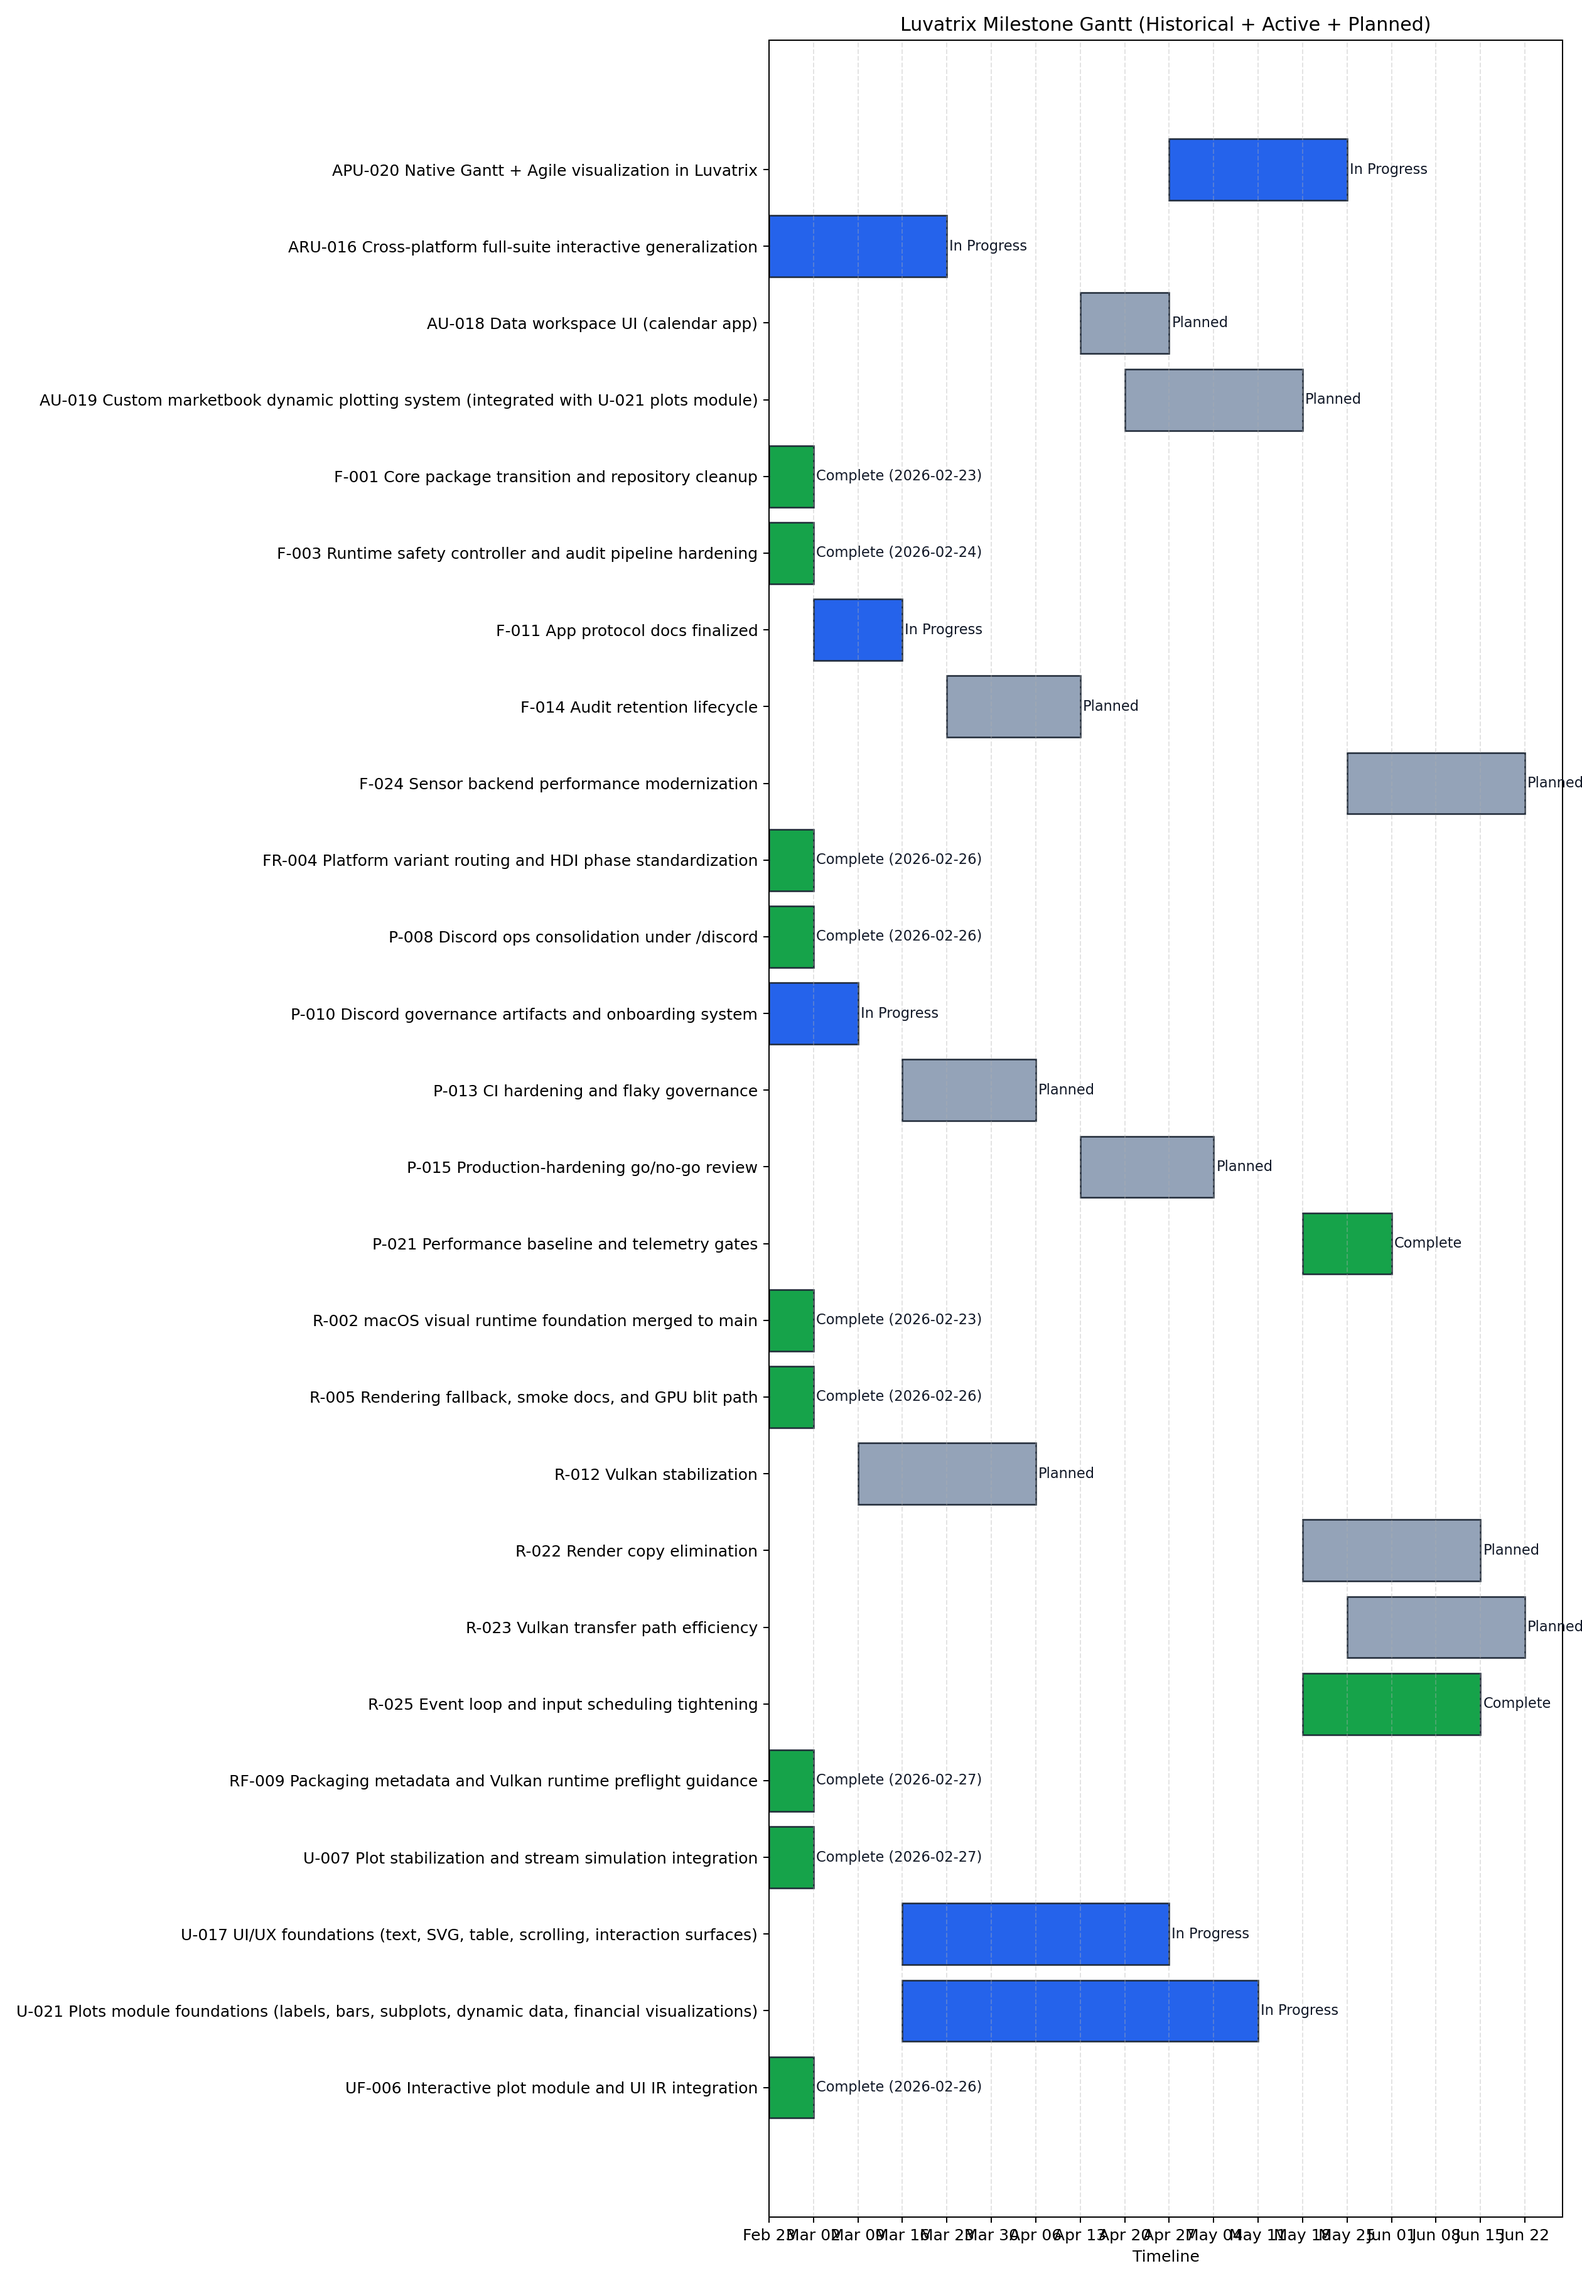
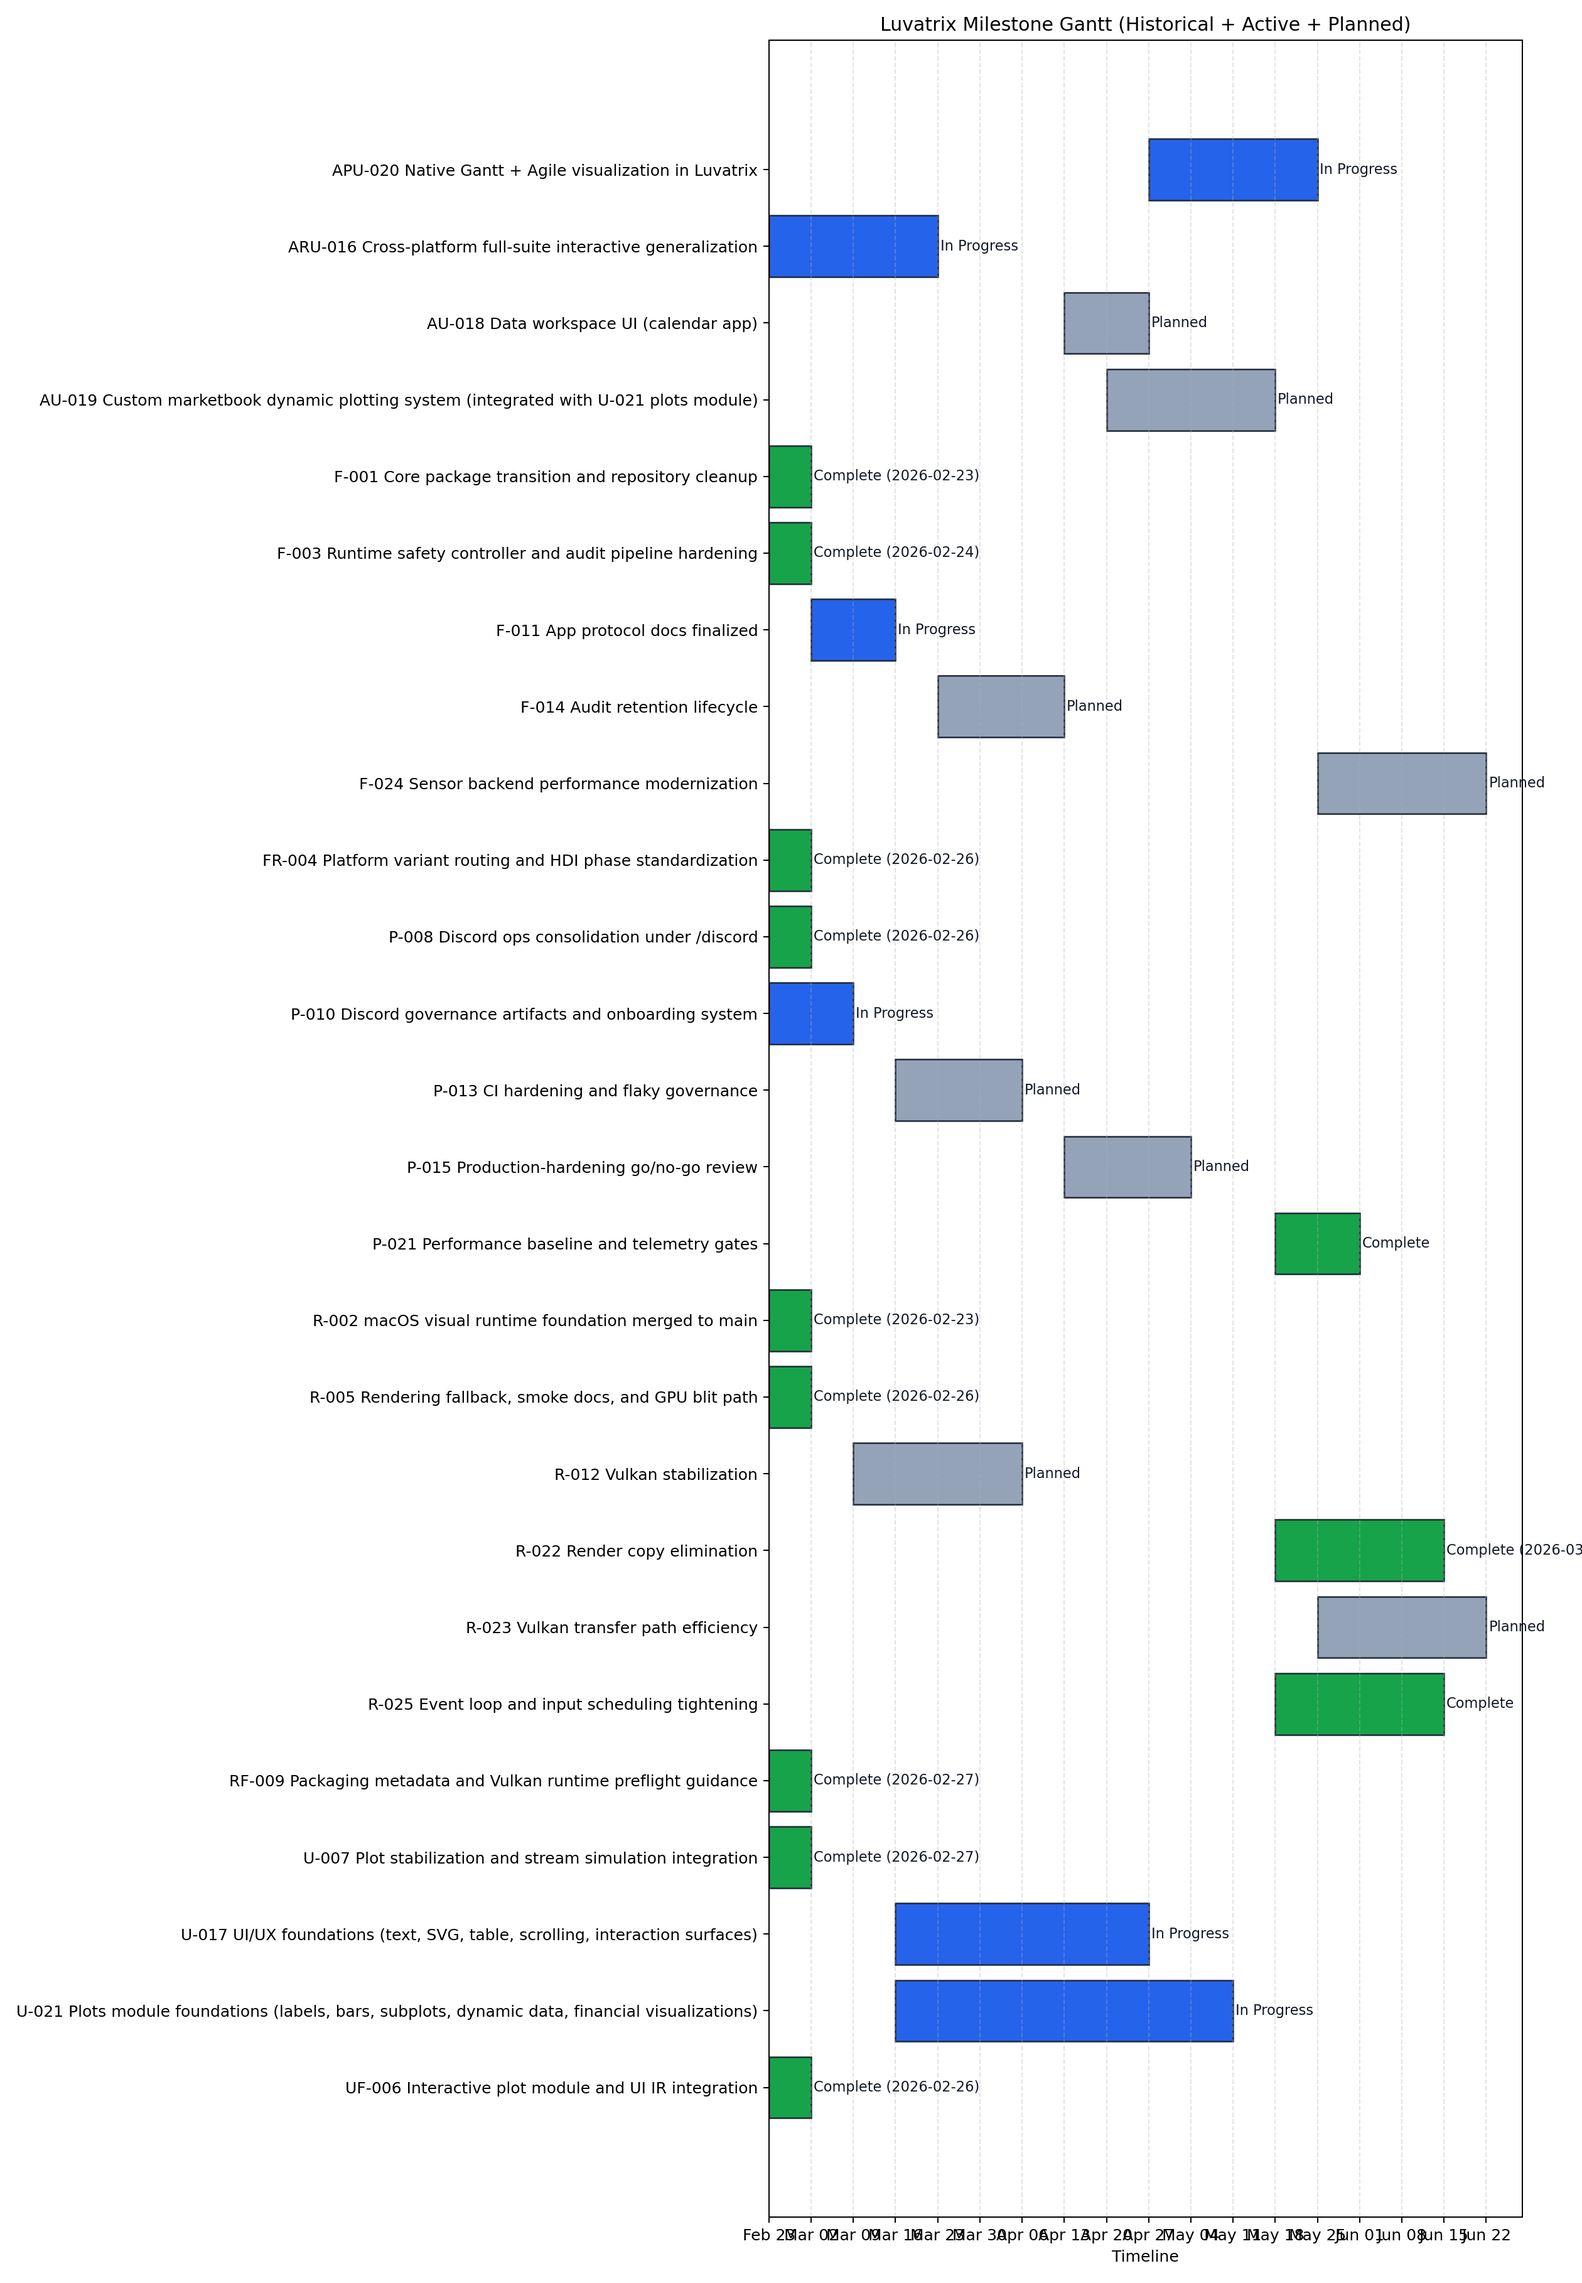
chore(planning): close R-022 tasks and mark milestone complete

diff --git a/ops/planning/gantt/milestones_gantt.md b/ops/planning/gantt/milestones_gantt.md
@@ -24,7 +24,7 @@ P-021 📏 Performance baseline and telemetry gates                             
 R-002 🖥 macOS visual runtime foundation merged to main                                            |=======                                                                                                                | Complete (2026-02-23)
 R-005 🎯 Rendering fallback, smoke docs, and GPU blit path                                          |=======                                                                                                                | Complete (2026-02-26)
 R-012 🎮 Vulkan stabilization                                                                       |              ~~~~~~~~~~~~~~~~~~~~~~~~~~~~                                                                             | Planned
-R-022 🧬 Render copy elimination                                                                    |                                                                                    ~~~~~~~~~~~~~~~~~~~~~~~~~~~~       | Planned
+R-022 🧬 Render copy elimination                                                                    |                                                                                    ============================       | Complete (2026-03-03)
 R-023 🚚 Vulkan transfer path efficiency                                                            |                                                                                           ~~~~~~~~~~~~~~~~~~~~~~~~~~~~| Planned
 R-025 🎛 Event loop and input scheduling tightening                                                |                                                                                    ============================       | Complete
 RF-009 📦 Packaging metadata and Vulkan runtime preflight guidance                                  |=======                                                                                                                | Complete (2026-02-27)
@@ -188,8 +188,9 @@ Legend: '=' Complete, '#' In Progress, '~' Planned, '!' At Risk, 'x' Blocked
   - 2026-03-03 active (framework=gateflow_v1) - active milestone in current planning cycle
 
 ### R-022 🧬 Render copy elimination
-- Status: Planned
+- Status: Complete
 - Target window: Week 13-16
+- Completed on: 2026-03-03
 - Tasks: `T-2201, T-2202, T-2203, T-2204`
 - Lifecycle events:
   - 2026-03-03 active (framework=gateflow_v1) - planned from architect performance directives
